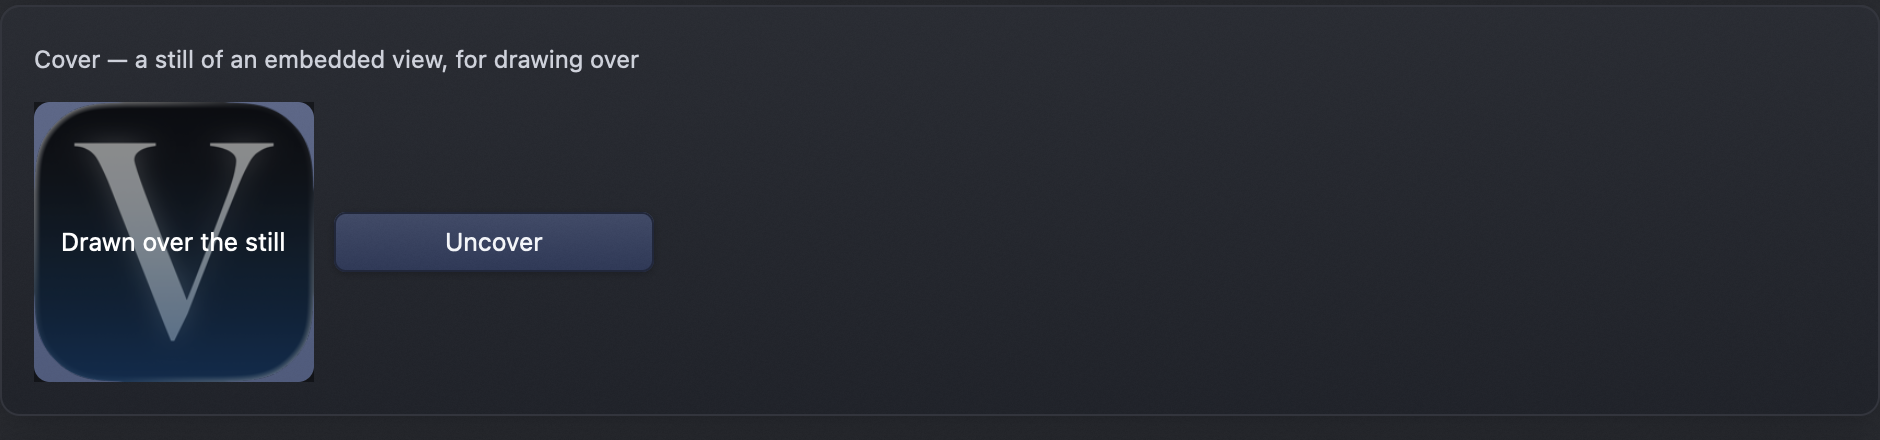
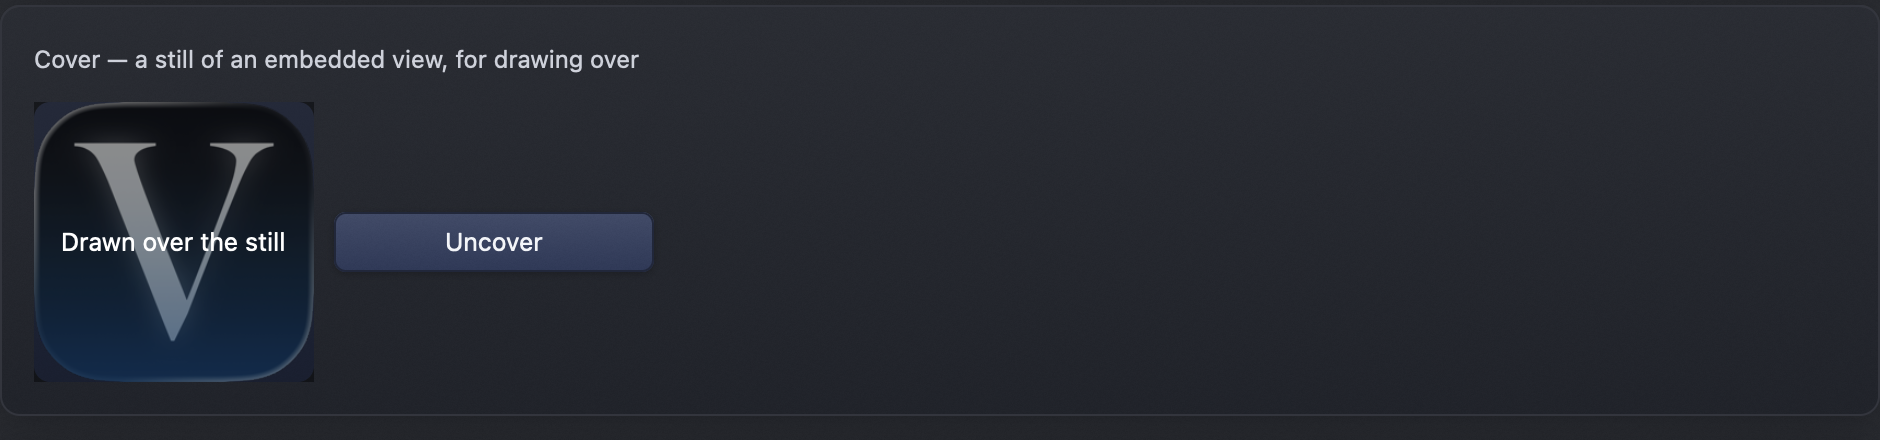
Give selected rows and filled tiles the label made for their fill
A tree row's detail and chevron stayed secondary grey on the selection,
and the gallery's hint tiles and cover stand-in set primary text on the
control fill, which in the light scheme is dark on a mid blue. All of them
now take the fill's own label colour, washing over with the selection.

diff --git a/src/data.rs b/src/data.rs
@@ -194,7 +194,6 @@ pub fn tree_row<V: ControlHost>(
     // should land when Tab reaches the tree.
     let focus = state.focus(id, cx);
     let click_focus = focus.clone();
-    let chevron: gpui::Hsla = crate::color::to_hsla(palette.text_secondary);
     let row_id = row.id.clone();
     let toggle_id = row.id.clone();
     let key_id = row.id.clone();
@@ -207,6 +206,11 @@ pub fn tree_row<V: ControlHost>(
     // flips, and rows a branch reveals fade in beneath it — unless the whole
     // tree has just appeared, in which case it arrives as one thing.
     let on = state.blend(key("selected"), selected, SWITCH_SLIDE);
+    // The quiet parts of a row — its chevron and its detail — go over to
+    // the fill's label with the rest of it, or they would sit grey on the
+    // selection.
+    let quiet = crate::color::lerp(palette.text_secondary, palette.control_label, on);
+    let chevron: gpui::Hsla = crate::color::to_hsla(quiet);
     let turned = expanded.map(|open| state.blend(key("open"), open, SWITCH_SLIDE));
     let shown = if state.present(id) {
         state.tween_from(key("shown"), 0.0, 1.0, SWITCH_SLIDE)
@@ -406,7 +410,7 @@ pub fn tree_row<V: ControlHost>(
             div()
                 .flex_none()
                 .text_size(px(11.5))
-                .text_color(palette.text_secondary)
+                .text_color(quiet)
                 .child(detail)
         }))
 }

diff --git a/examples/gallery.rs b/examples/gallery.rs
@@ -2052,6 +2052,8 @@ impl Gallery {
                     .bg(lit(palette.control_fill, 0.05))
                     .border_1()
                     .border_color(palette.field_border)
+                    // On the control fill, so the label made for it.
+                    .text_color(palette.control_label)
                     .cursor_pointer()
                     .hover(move |style| style.bg(lit(palette.control_fill, 0.09)))
                     .child(glyph(character)),
@@ -2121,11 +2123,13 @@ impl Gallery {
             .h(px(140.0))
             .rounded(px(8.0))
             .overflow_hidden()
-            .bg(lit(palette.accent, 0.1))
+            // A filled control's colours: a fill with a label made for it,
+            // in either scheme.
+            .bg(lit(palette.control_fill, 0.08))
             .flex()
             .items_center()
             .justify_center()
-            .text_color(palette.text_primary)
+            .text_color(palette.control_label)
             .child(if covered { "" } else { "A live native view" })
             .children(self.cover.backdrop())
             .when(covered, |el| {
